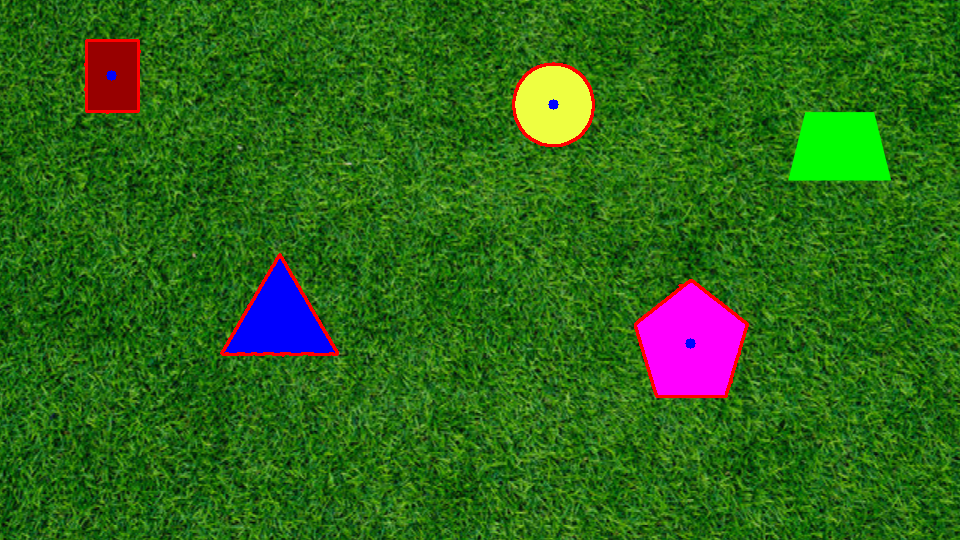
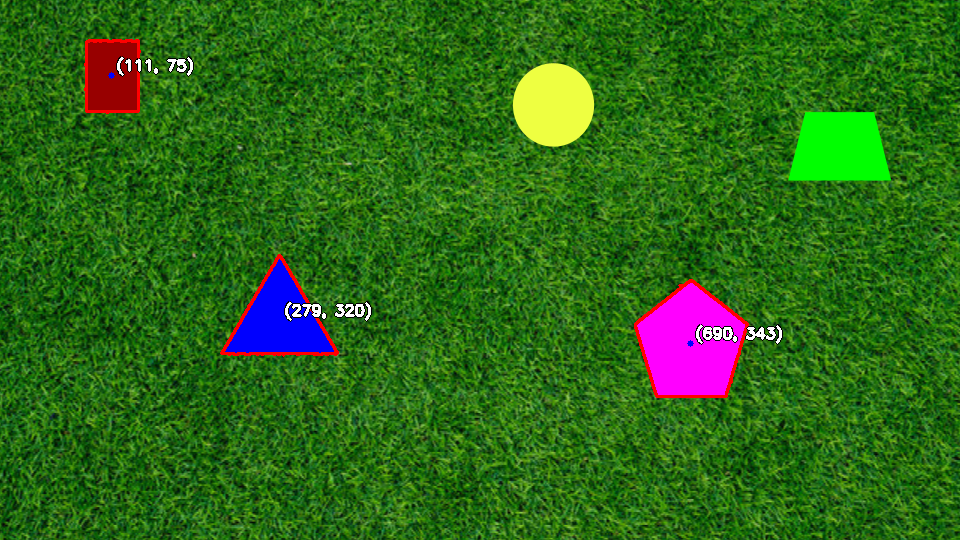
fixed centroid visualization plus agnostic quality

diff --git a/src/shape_detection/agnostic_detection.py b/src/shape_detection/agnostic_detection.py
@@ -1,6 +1,7 @@
 import cv2
 import numpy as np
 from .utils import detect_shapes, draw_shapes
+import os
 
 def process_agnostic_video(input_path, output_path):
     cap = cv2.VideoCapture(input_path)
@@ -10,21 +11,34 @@ def process_agnostic_video(input_path, output_path):
     fourcc = cv2.VideoWriter_fourcc(*'mp4v')
     out = cv2.VideoWriter(output_path, fourcc, fps, (width, height))
 
+    frame_count = 0
+
     while cap.isOpened():
         ret, frame = cap.read()
         if not ret:
             break
-        gray = cv2.cvtColor(frame, cv2.COLOR_BGR2GRAY)
-        thresh = cv2.adaptiveThreshold(
-            gray, 255, cv2.ADAPTIVE_THRESH_GAUSSIAN_C,
-            cv2.THRESH_BINARY_INV, 11, 2
-        )
-        kernel = cv2.getStructuringElement(cv2.MORPH_ELLIPSE, (5, 5))
-        thresh = cv2.morphologyEx(thresh, cv2.MORPH_CLOSE, kernel)
-        shapes = detect_shapes(thresh, min_area=500)
 
-        draw_shapes(frame, shapes)
-        out.write(frame)
+        blurred = cv2.GaussianBlur(frame, (5, 5), 0)
+        gray = cv2.cvtColor(blurred, cv2.COLOR_BGR2GRAY)
+        edges = cv2.Canny(gray, 50, 150)
+        kernel = cv2.getStructuringElement(cv2.MORPH_ELLIPSE, (9, 9))  
+        closed = cv2.morphologyEx(edges, cv2.MORPH_CLOSE, kernel)
+        shapes = detect_shapes(closed, min_area=300)  
+        output_frame = frame.copy()
+        draw_shapes(output_frame, shapes)
+        font = cv2.FONT_HERSHEY_SIMPLEX
+        font_scale = 0.5
+        thickness = 2
+        color = (255, 255, 255) 
+        for center, _ in shapes:
+            x, y = center
+            text = f"({x:.0f}, {y:.0f})"
+            cv2.putText(output_frame, text, (int(x) + 5, int(y) - 5), font, font_scale, (0, 0, 0), thickness + 2)
+            cv2.putText(output_frame, text, (int(x) + 5, int(y) - 5), font, font_scale, color, thickness)
+
+        out.write(output_frame)
+        frame_count += 1
 
     cap.release()
     out.release()
+    return frame_count

diff --git a/src/shape_detection/static_image.py b/src/shape_detection/static_image.py
@@ -1,16 +1,31 @@
 import cv2
 import numpy as np
 from .utils import detect_shapes, draw_shapes
+import os
 
 def process_static_image(input_path, output_path):
     img = cv2.imread(input_path)
-    hsv = cv2.cvtColor(img, cv2.COLOR_BGR2HSV)
-    lower_green = np.array([35, 40, 40])
-    upper_green = np.array([85, 255, 255])
-    mask = cv2.inRange(hsv, lower_green, upper_green)
-    mask = cv2.bitwise_not(mask)
-    shapes = detect_shapes(mask, min_area=500)
-    output_img = img.copy()
-    draw_shapes(output_img, shapes)
-    cv2.imwrite(output_path, output_img)
-    return shapes
+    if img is None:
+        return []
+    else:
+        hsv = cv2.cvtColor(img, cv2.COLOR_BGR2HSV)
+        lower_green = np.array([25, 40, 40])  
+        upper_green = np.array([95, 255, 255])
+        mask = cv2.inRange(hsv, lower_green, upper_green)
+        mask = cv2.bitwise_not(mask)
+        shapes = detect_shapes(mask, min_area=200) 
+        output_img = img.copy()
+        draw_shapes(output_img, shapes)
+        font = cv2.FONT_HERSHEY_SIMPLEX
+        font_scale = 0.5
+        thickness = 2
+        color = (255, 255, 255)  
+        for center, _ in shapes:
+            x, y = center
+            text = f"({x:.0f}, {y:.0f})"
+            cv2.putText(output_img, text, (int(x) + 5, int(y) - 5), font, font_scale, (0, 0, 0), thickness + 2)
+            cv2.putText(output_img, text, (int(x) + 5, int(y) - 5), font, font_scale, color, thickness)
+            
+        os.makedirs(os.path.dirname(output_path), exist_ok=True)
+        cv2.imwrite(output_path, output_img)
+        return shapes

diff --git a/src/shape_detection/video_processing.py b/src/shape_detection/video_processing.py
@@ -10,6 +10,8 @@ def process_video(input_path, output_path):
     fourcc = cv2.VideoWriter_fourcc(*'mp4v')
     out = cv2.VideoWriter(output_path, fourcc, fps, (width, height))
 
+    frame_count = 0
+
     while cap.isOpened():
         ret, frame = cap.read()
         if not ret:
@@ -21,8 +23,23 @@ def process_video(input_path, output_path):
         mask = cv2.inRange(hsv, lower_green, upper_green)
         mask = cv2.bitwise_not(mask)
         shapes = detect_shapes(mask, min_area=500)
-        draw_shapes(frame, shapes)
-        out.write(frame)
+        output_frame = frame.copy()
+        draw_shapes(output_frame, shapes)
+
+        font = cv2.FONT_HERSHEY_SIMPLEX
+        font_scale = 0.5
+        thickness = 2
+        color = (255, 255, 255)  
+        for center, _ in shapes:
+            x, y = center
+            text = f"({x:.0f}, {y:.0f})"
+            cv2.putText(output_frame, text, (int(x) + 5, int(y) - 5), font, font_scale, (0, 0, 0), thickness + 2)
+            cv2.putText(output_frame, text, (int(x) + 5, int(y) - 5), font, font_scale, color, thickness)
+
+        out.write(output_frame)
+        frame_count += 1
 
     cap.release()
     out.release()
+    return frame_count
+

diff --git a/src/shape_detection/utils.py b/src/shape_detection/utils.py
@@ -14,6 +14,9 @@ def detect_shapes(mask, min_area=500):
     return shapes
 
 def draw_shapes(img, shapes):
-    for (cx, cy), contour in shapes:
+    for center, contour in shapes:
         cv2.drawContours(img, [contour], -1, (0, 0, 255), 2)
-        cv2.circle(img, (cx, cy), 5, (255, 0, 0), -1)
+        cv2.circle(img, center, 3, (255, 0, 0), -1)
+    return img
+
+
